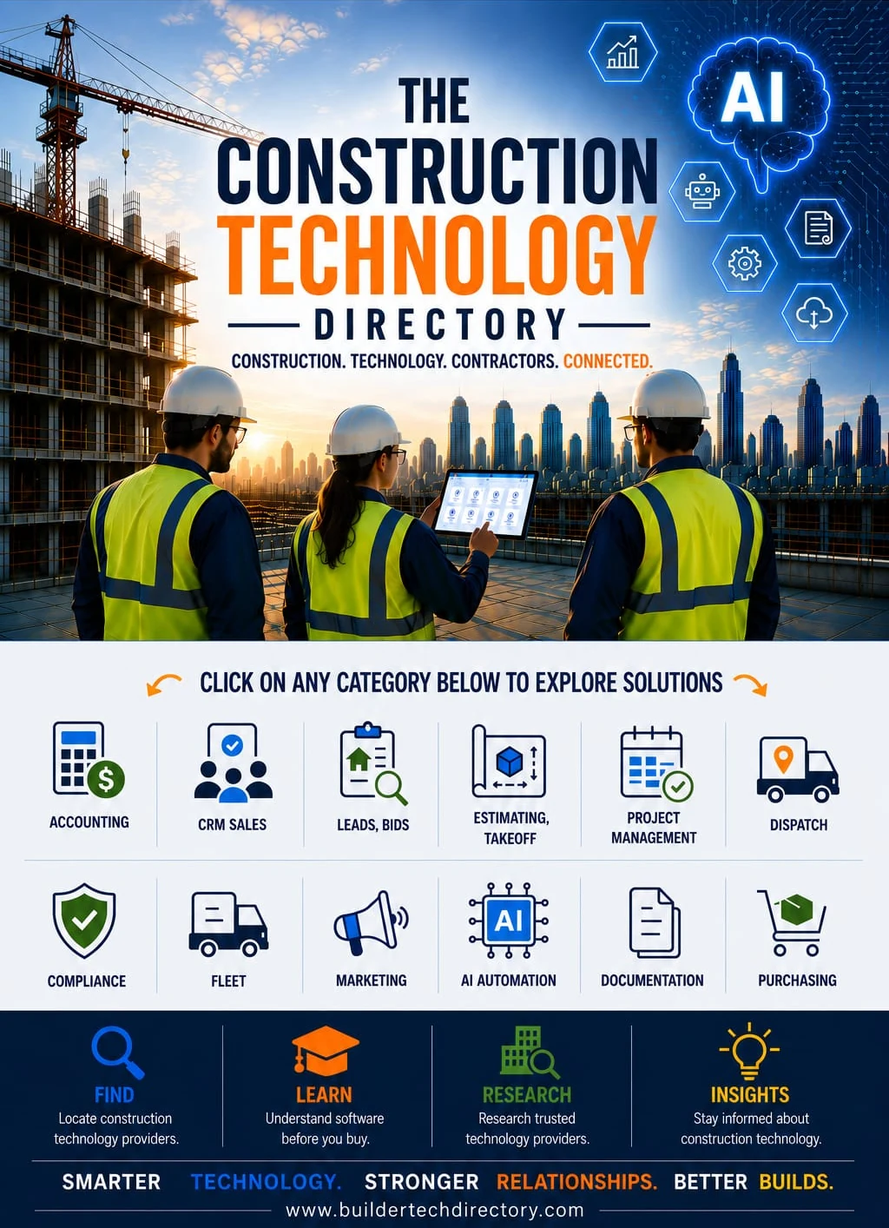
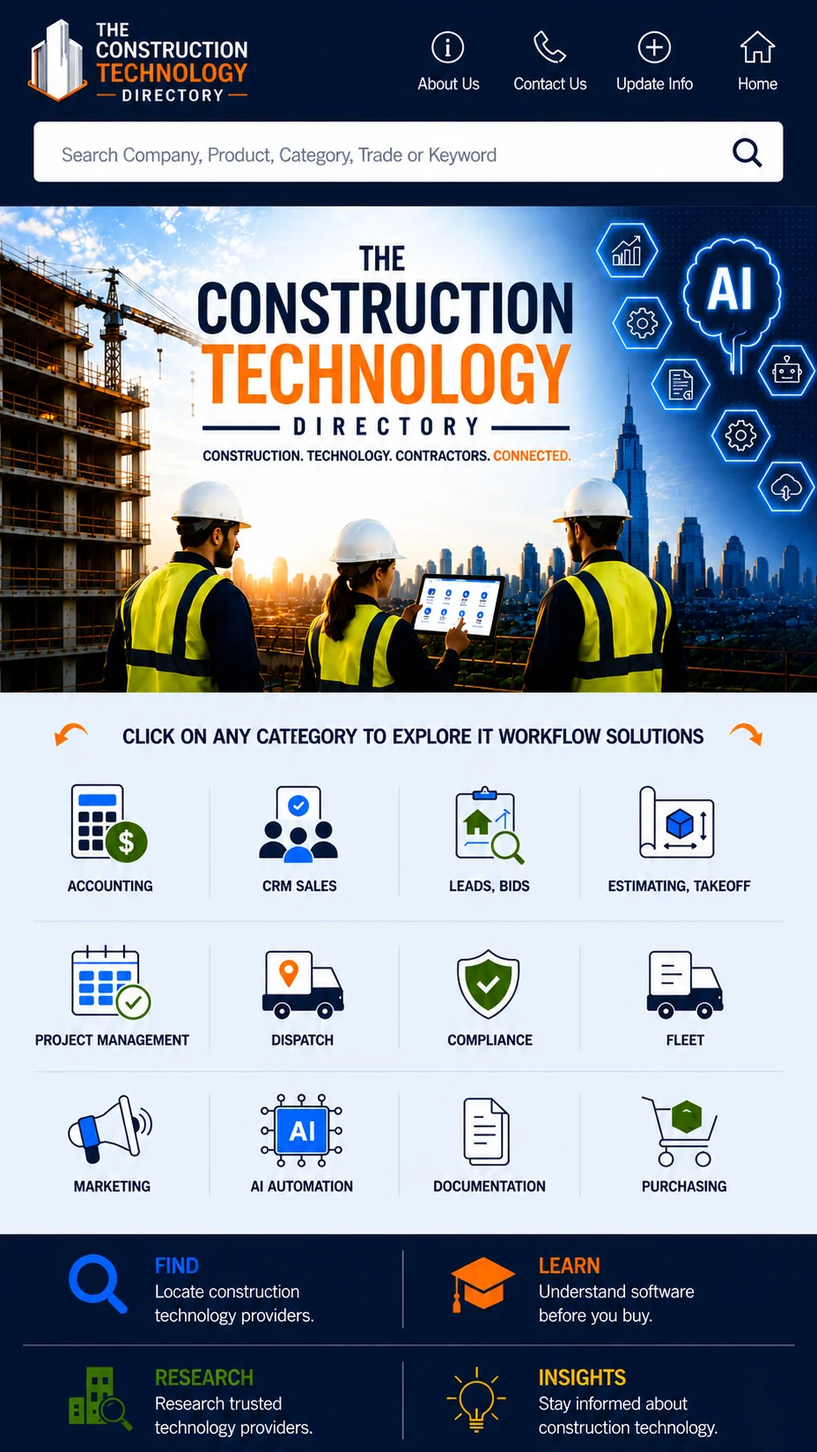
Rebuild homepage from latest Claude Design mockup (image nav + footer, live search)
- Replace hero/nav/footer with new flat design images (baked-in header nav + footer, no login) and precise percentage-based hotspots for desktop and mobile
- Category hotspots wire directly into the existing filter engine (data-cat) - clicking a category scrolls to the directory and filters live
- Logo and search hotspots scroll to top / scroll to and focus the real search input
- Add a real functional search bar at the top of the directory section (header no longer sticky, nav is baked into the hero image)
- Footer is now the approved flat design image with hotspots for all nav/legal/social links (destinations to be wired next)
- Convert new design PNGs to webp, cutting hero+footer image weight from ~4.6MB to ~450KB
- Remove dead CSS from the old HTML header/footer/hero implementations

diff --git a/index.html b/index.html
@@ -19,122 +19,114 @@
     ::-webkit-scrollbar{width:10px}
     ::-webkit-scrollbar-thumb{background:#CBD5E1;border-radius:8px;border:2px solid #F4F6F9}
 
-    /* ===== PAGE 1 : HERO LANDING ===== */
-    .hero-page{background:#0A1B30}
-    /* Desktop: flat mockup image + clickable category hotspots */
-    .hero-flat{position:relative;display:block;width:100%;margin:0 auto}
-    .hero-flat>img{display:block;width:100%;height:auto}
-    .hero-hot{position:absolute;left:0;right:0;top:60.5%;height:15.5%}
-    .hero-hot a{position:absolute;top:0;height:100%;display:block;border-radius:10px;transition:background .14s ease}
-    .hero-hot a:hover{background:rgba(28,78,128,.15)}
-    /* Mobile: flat portrait mockup image + clickable hotspots */
-    .hero-mobile-flat{display:none;position:relative;width:100%}
-    .hero-mobile-flat>img{display:block;width:100%;height:auto}
-    .hero-mobile-flat a{position:absolute;display:block;border-radius:8px;-webkit-tap-highlight-color:transparent;transition:background .14s ease}
-    .hero-mobile-flat a:hover,.hero-mobile-flat a:active{background:rgba(28,78,128,.18)}
-    /* (legacy HTML mobile hero, unused) */
-    .hero-mobile{display:none}
-    .hero-visual{flex:1 1 auto;position:relative;min-height:200px;overflow:hidden}
-    .hero-visual picture,.hero-visual img{position:absolute;inset:0;width:100%;height:100%;object-fit:cover;object-position:center}
-    .hero-catstrip{flex:0 0 auto;background:#fff}
-    .hero-catgrid{display:grid;grid-template-columns:repeat(4,1fr);gap:9px}
-    .htile{display:flex;flex-direction:column;align-items:center;gap:7px;padding:11px 5px;border:1.5px solid #E5EAF1;border-radius:12px;background:#fff}
-    .hero-pillarband{flex:0 0 auto;background:linear-gradient(180deg,#14365C,#0E2747);color:#fff}
-    .hero-pillars{display:grid;grid-template-columns:repeat(2,1fr);gap:16px}
+    /* ===== PAGE 1 : HERO + FOOTER (flat design images, hotspot overlays) ===== */
+    body{background:#01153c}
+    img.hero-img{width:100%;height:auto;display:block}
+    .hswrap{position:relative;width:100%;margin:0 auto}
+    .hswrap.desktop{max-width:1672px}
+    .hswrap.mobile{max-width:941px}
+    .hswrap.desktop-ftr{max-width:1677px}
+    .hswrap.mobile-ftr{max-width:942px}
+    .hs{position:absolute;display:block;border-radius:6px;cursor:pointer;
+        background:transparent;transition:background .15s ease, box-shadow .15s ease;}
+    .hs:hover{background:rgba(242,106,27,.16);box-shadow:0 0 0 2px rgba(242,106,27,.75) inset;}
+    .hs:focus-visible{outline:none;background:rgba(242,106,27,.20);box-shadow:0 0 0 2px rgba(242,106,27,.9) inset;}
+    .view-desktop{display:block}
+    .view-mobile{display:none}
+    @media (max-width:760px){.view-desktop{display:none}.view-mobile{display:block}}
 
     /* ===== PAGE 2 : DIRECTORY / FILTERS ===== */
-    #directory{scroll-margin-top:72px}
+    #directory{background:#F4F6F9;scroll-margin-top:12px}
+    .dir-search{max-width:900px;margin:0 auto 30px;display:flex;gap:0;box-shadow:0 8px 30px rgba(1,21,60,.10);border-radius:14px;overflow:hidden;border:1px solid #E2E8F0}
+    .dir-search input{flex:1;border:none;padding:19px 22px;font-size:16px;outline:none;color:#0F1B2D;background:#fff}
+    .dir-search button{border:none;background:#F47A21;color:#fff;font-weight:800;padding:0 26px;font-size:15px;cursor:pointer;display:flex;align-items:center;gap:8px}
     .dir-layout{display:grid;grid-template-columns:276px 1fr;gap:26px;align-items:start}
-    .cat-grid{display:grid;grid-template-columns:repeat(6,1fr);gap:12px}
-    .ftr-pillars{display:grid;grid-template-columns:repeat(4,1fr);gap:30px}
     .cat-tile{cursor:pointer;transition:transform .14s,border-color .14s,background .14s}
     .cat-tile:hover{transform:translateY(-3px)}
 
     @media(max-width:1000px){
       .dir-layout{grid-template-columns:1fr}
       .dir-sidebar{position:static!important;top:auto!important}
-      .cat-grid{grid-template-columns:repeat(3,1fr)}
-      .ftr-pillars{grid-template-columns:repeat(2,1fr);gap:22px}
-    }
-    @media(max-width:760px){
-      .hero-flat{display:none}
-      .hero-mobile-flat{display:block}
     }
     @media(max-width:600px){
-      .cat-grid{grid-template-columns:repeat(2,1fr)}
-      .hdr-inner{flex-wrap:wrap;gap:10px!important;padding:10px 16px!important}
-      .hdr-search{order:3;flex-basis:100%;max-width:none}
+      .dir-search{margin-bottom:20px}
     }
   </style>
 </head>
 <body>
 
-<!-- ============ UNIFIED HEADER (logo + search, no login) ============ -->
-<header style="position:sticky;top:0;z-index:60;background:#fff;border-bottom:1px solid #E5EAF1;box-shadow:0 1px 0 rgba(15,27,45,.02)">
-  <div class="hdr-inner" style="max-width:1240px;margin:0 auto;padding:11px 22px;display:flex;align-items:center;gap:20px">
-    <a href="#top" style="display:flex;align-items:center;gap:11px;flex:none">
-      <span style="width:40px;height:40px;border-radius:10px;background:linear-gradient(155deg,#1C4E80,#14365C);display:flex;align-items:center;justify-content:center;position:relative;flex:none">
-        <svg width="22" height="22" viewBox="0 0 24 24" fill="none" stroke="#fff" stroke-width="1.8" stroke-linecap="round" stroke-linejoin="round"><path d="M3 21h18M5 21V8l7-4 7 4v13"/><path d="M9 21v-5h6v5"/><path d="M9 11h.01M15 11h.01"/></svg>
-        <span style="position:absolute;left:8px;right:8px;bottom:7px;height:3px;border-radius:3px;background:#F47A21"></span>
-      </span>
-      <span style="display:flex;flex-direction:column;line-height:1.02">
-        <span style="font-size:8.5px;font-weight:800;letter-spacing:.26em;color:#94A3B8">THE CONSTRUCTION</span>
-        <span style="font-size:14px;font-weight:900;letter-spacing:.01em;color:#F47A21;line-height:1.05">TECHNOLOGY</span>
-        <span style="font-size:9px;font-weight:800;letter-spacing:.42em;color:#14365C">DIRECTORY</span>
-      </span>
-    </a>
-    <div class="hdr-search" style="flex:1;position:relative;max-width:680px">
-      <svg style="position:absolute;left:16px;top:50%;transform:translateY(-50%)" width="18" height="18" viewBox="0 0 24 24" fill="none" stroke="#94A3B8" stroke-width="2.4" stroke-linecap="round" stroke-linejoin="round"><circle cx="11" cy="11" r="8"/><path d="M21 21l-4.35-4.35"/></svg>
-      <input type="text" id="search-input" placeholder="Type company, category, subcategory or trade name…" style="width:100%;padding:12px 44px 12px 44px;border-radius:11px;border:1.5px solid #E2E8F0;background:#F8FAFC;font-size:14px;color:#0F1B2D;outline:none" onfocus="this.style.borderColor='#1C4E80';this.style.background='#fff';document.getElementById('directory').scrollIntoView({behavior:'smooth'})" onblur="this.style.borderColor='#E2E8F0';this.style.background='#F8FAFC'">
-      <button id="clear-search" style="position:absolute;right:12px;top:50%;transform:translateY(-50%);width:22px;height:22px;border:none;border-radius:50%;background:#E2E8F0;color:#475569;cursor:pointer;display:flex;align-items:center;justify-content:center;font-size:14px;line-height:1;padding:0">×</button>
-    </div>
-  </div>
-</header>
+<!-- ============ HERO + NAV + CATEGORIES (flat design image, DESKTOP) ============ -->
+<div id="top" class="view-desktop">
+  <div class="hswrap desktop">
+    <img class="hero-img" src="assets/hero/home-hero-desktop.webp" alt="The Construction Technology Directory homepage">
+    <a class="hs" href="#top" data-scroll="top" aria-label="Home — scroll to top" style="left:3.3%;top:2.1%;width:16.7%;height:9%"></a>
+    <a class="hs" href="#directory" data-scroll="search" aria-label="Search — go to Directory" style="left:27.4%;top:3.2%;width:41.4%;height:6.6%"></a>
+    <a class="hs" href="#" data-link="about-us" aria-label="About Us" style="left:72.4%;top:2.7%;width:4.8%;height:8.5%"></a>
+    <a class="hs" href="#" data-link="contact-us" aria-label="Contact Us" style="left:78.6%;top:2.7%;width:5.1%;height:8.5%"></a>
+    <a class="hs" href="#" data-link="update-info" aria-label="Update Info" style="left:85.4%;top:2.7%;width:5.6%;height:8.5%"></a>
+    <a class="hs" href="#top" data-scroll="top" aria-label="Home" style="left:92.3%;top:2.7%;width:4.3%;height:8.5%"></a>
 
-<!-- ============ PAGE 1 : HERO LANDING ============ -->
-<section id="top" class="hero-page">
+    <a class="hs" href="#directory" data-cat="accounting-payroll" aria-label="Accounting category" style="left:5.4%;top:59.5%;width:14.7%;height:12.8%"></a>
+    <a class="hs" href="#directory" data-cat="crm-sales" aria-label="CRM &amp; Sales category" style="left:20.9%;top:59.5%;width:14.1%;height:12.8%"></a>
+    <a class="hs" href="#directory" data-cat="construction-leads" aria-label="Leads &amp; Bids category" style="left:35.9%;top:59.5%;width:14.1%;height:12.8%"></a>
+    <a class="hs" href="#directory" data-cat="estimating-takeoff" aria-label="Estimating &amp; Takeoff category" style="left:50.8%;top:59.5%;width:14.1%;height:12.8%"></a>
+    <a class="hs" href="#directory" data-cat="project-management" aria-label="Project Management category" style="left:65.8%;top:59.5%;width:14.1%;height:12.8%"></a>
+    <a class="hs" href="#directory" data-cat="field-service-dispatch" aria-label="Dispatch category" style="left:80.7%;top:59.5%;width:13.8%;height:12.8%"></a>
+    <a class="hs" href="#directory" data-cat="safety-compliance" aria-label="Compliance category" style="left:5.4%;top:74.4%;width:14.7%;height:12.2%"></a>
+    <a class="hs" href="#directory" data-cat="fleet-equipment" aria-label="Fleet category" style="left:20.9%;top:74.4%;width:14.1%;height:12.2%"></a>
+    <a class="hs" href="#directory" data-cat="marketing-reputation" aria-label="Marketing category" style="left:35.9%;top:74.4%;width:14.1%;height:12.2%"></a>
+    <a class="hs" href="#directory" data-cat="ai-automation" aria-label="AI Automation category" style="left:50.8%;top:74.4%;width:14.1%;height:12.2%"></a>
+    <a class="hs" href="#directory" data-cat="document-management" aria-label="Documentation category" style="left:65.8%;top:74.4%;width:14.1%;height:12.2%"></a>
+    <a class="hs" href="#directory" data-cat="procurement-purchasing" aria-label="Purchasing category" style="left:80.7%;top:74.4%;width:13.8%;height:12.2%"></a>
 
-  <!-- DESKTOP: flat mockup image with clickable category hotspots -->
-  <div class="hero-flat">
-    <img src="assets/hero/home-hero-desktop.webp" alt="The Construction Technology Directory — construction professionals reviewing technology with AI tools, click any category to explore solutions">
-    <div class="hero-hot">
-      <a href="#directory" data-cat="accounting-payroll"     aria-label="Accounting &amp; Payroll"   style="left:1.0%;width:8.25%"></a>
-      <a href="#directory" data-cat="crm-sales"              aria-label="CRM &amp; Sales"           style="left:9.25%;width:8.3%"></a>
-      <a href="#directory" data-cat="construction-leads"     aria-label="Leads, Bids &amp; Estimates" style="left:17.55%;width:8.45%"></a>
-      <a href="#directory" data-cat="estimating-takeoff"     aria-label="Estimating &amp; Takeoff"   style="left:26.0%;width:8.5%"></a>
-      <a href="#directory" data-cat="project-management"     aria-label="Project Management"        style="left:34.5%;width:8.7%"></a>
-      <a href="#directory" data-cat="field-service-dispatch" aria-label="Dispatch"                  style="left:43.2%;width:8.55%"></a>
-      <a href="#directory" data-cat="safety-compliance"      aria-label="Compliance"                style="left:51.75%;width:7.85%"></a>
-      <a href="#directory" data-cat="fleet-equipment"        aria-label="Fleet"                     style="left:59.6%;width:7.55%"></a>
-      <a href="#directory" data-cat="marketing-reputation"   aria-label="Marketing"                 style="left:67.15%;width:7.8%"></a>
-      <a href="#directory" data-cat="ai-automation"          aria-label="AI Automation"             style="left:74.95%;width:8.2%"></a>
-      <a href="#directory" data-cat="document-management"    aria-label="Documentation"             style="left:83.15%;width:7.85%"></a>
-      <a href="#directory" data-cat="procurement-purchasing" aria-label="Purchasing"                style="left:91.0%;width:7.4%"></a>
-    </div>
+    <a class="hs" href="#" data-link="find" aria-label="Find" style="left:6%;top:87.7%;width:22.1%;height:12.3%"></a>
+    <a class="hs" href="#" data-link="learn" aria-label="Learn" style="left:31.7%;top:87.7%;width:22.7%;height:12.3%"></a>
+    <a class="hs" href="#" data-link="research" aria-label="Research" style="left:57.4%;top:87.7%;width:17.3%;height:12.3%"></a>
+    <a class="hs" href="#" data-link="insights" aria-label="Insights" style="left:76.6%;top:87.7%;width:19.7%;height:12.3%"></a>
   </div>
+</div>
 
-  <!-- MOBILE: flat portrait mockup image with clickable category hotspots -->
-  <div class="hero-mobile-flat">
-    <img src="assets/hero/home-hero-mobile.webp" alt="The Construction Technology Directory — construction professionals reviewing technology with AI tools, tap any category to explore solutions">
-    <!-- Row 1 -->
-    <a href="#directory" data-cat="accounting-payroll"     aria-label="Accounting &amp; Payroll"    style="left:1.9%;width:15%;top:54.5%;height:10.8%"></a>
-    <a href="#directory" data-cat="crm-sales"              aria-label="CRM &amp; Sales"            style="left:18.5%;width:15%;top:54.5%;height:10.8%"></a>
-    <a href="#directory" data-cat="construction-leads"     aria-label="Leads, Bids &amp; Estimates" style="left:34.1%;width:15%;top:54.5%;height:10.8%"></a>
-    <a href="#directory" data-cat="estimating-takeoff"     aria-label="Estimating &amp; Takeoff"    style="left:50.2%;width:15%;top:54.5%;height:10.8%"></a>
-    <a href="#directory" data-cat="project-management"     aria-label="Project Management"         style="left:65.8%;width:15%;top:54.5%;height:10.8%"></a>
-    <a href="#directory" data-cat="field-service-dispatch" aria-label="Dispatch"                   style="left:82.3%;width:15%;top:54.5%;height:10.8%"></a>
-    <!-- Row 2 -->
-    <a href="#directory" data-cat="safety-compliance"      aria-label="Compliance"                style="left:1.9%;width:15%;top:65.5%;height:12.5%"></a>
-    <a href="#directory" data-cat="fleet-equipment"        aria-label="Fleet"                     style="left:18.5%;width:15%;top:65.5%;height:12.5%"></a>
-    <a href="#directory" data-cat="marketing-reputation"   aria-label="Marketing"                 style="left:34.1%;width:15%;top:65.5%;height:12.5%"></a>
-    <a href="#directory" data-cat="ai-automation"          aria-label="AI Automation"             style="left:50.2%;width:15%;top:65.5%;height:12.5%"></a>
-    <a href="#directory" data-cat="document-management"    aria-label="Documentation"             style="left:65.8%;width:15%;top:65.5%;height:12.5%"></a>
-    <a href="#directory" data-cat="procurement-purchasing" aria-label="Purchasing"                style="left:82.3%;width:15%;top:65.5%;height:12.5%"></a>
+<!-- ============ HERO + NAV + CATEGORIES (flat design image, MOBILE) ============ -->
+<div class="view-mobile">
+  <div class="hswrap mobile">
+    <img class="hero-img" src="assets/hero/home-hero-mobile.webp" alt="The Construction Technology Directory homepage">
+    <a class="hs" href="#top" data-scroll="top" aria-label="Home — scroll to top" style="left:5.8%;top:1.2%;width:29.8%;height:6%"></a>
+    <a class="hs" href="#directory" data-scroll="search" aria-label="Search — go to Directory" style="left:3.7%;top:8.7%;width:92.8%;height:3.9%"></a>
+    <a class="hs" href="#" data-link="about-us" aria-label="About Us" style="left:50.5%;top:1.8%;width:9%;height:5.4%"></a>
+    <a class="hs" href="#" data-link="contact-us" aria-label="Contact Us" style="left:62.7%;top:1.8%;width:9.4%;height:5.4%"></a>
+    <a class="hs" href="#" data-link="update-info" aria-label="Update Info" style="left:74.9%;top:1.8%;width:10.6%;height:5.4%"></a>
+    <a class="hs" href="#top" data-scroll="top" aria-label="Home" style="left:88.4%;top:1.8%;width:8.5%;height:5.4%"></a>
+
+    <a class="hs" href="#directory" data-cat="accounting-payroll" aria-label="Accounting category" style="left:3.2%;top:53.2%;width:21.8%;height:10.5%"></a>
+    <a class="hs" href="#directory" data-cat="crm-sales" aria-label="CRM &amp; Sales category" style="left:26%;top:53.2%;width:22.3%;height:10.5%"></a>
+    <a class="hs" href="#directory" data-cat="construction-leads" aria-label="Leads &amp; Bids category" style="left:49.4%;top:53.2%;width:22.3%;height:10.5%"></a>
+    <a class="hs" href="#directory" data-cat="estimating-takeoff" aria-label="Estimating &amp; Takeoff category" style="left:72.8%;top:53.2%;width:22.3%;height:10.5%"></a>
+    <a class="hs" href="#directory" data-cat="project-management" aria-label="Project Management category" style="left:3.2%;top:64.6%;width:21.8%;height:10.5%"></a>
+    <a class="hs" href="#directory" data-cat="field-service-dispatch" aria-label="Dispatch category" style="left:26%;top:64.6%;width:22.3%;height:10.5%"></a>
+    <a class="hs" href="#directory" data-cat="safety-compliance" aria-label="Compliance category" style="left:49.4%;top:64.6%;width:22.3%;height:10.5%"></a>
+    <a class="hs" href="#directory" data-cat="fleet-equipment" aria-label="Fleet category" style="left:72.8%;top:64.6%;width:22.3%;height:10.5%"></a>
+    <a class="hs" href="#directory" data-cat="marketing-reputation" aria-label="Marketing category" style="left:3.2%;top:75.4%;width:21.8%;height:10.5%"></a>
+    <a class="hs" href="#directory" data-cat="ai-automation" aria-label="AI Automation category" style="left:26%;top:75.4%;width:22.3%;height:10.5%"></a>
+    <a class="hs" href="#directory" data-cat="document-management" aria-label="Documentation category" style="left:49.4%;top:75.4%;width:22.3%;height:10.5%"></a>
+    <a class="hs" href="#directory" data-cat="procurement-purchasing" aria-label="Purchasing category" style="left:72.8%;top:75.4%;width:22.3%;height:10.5%"></a>
+
+    <a class="hs" href="#" data-link="find" aria-label="Find" style="left:6.4%;top:86%;width:42%;height:6.5%"></a>
+    <a class="hs" href="#" data-link="learn" aria-label="Learn" style="left:53%;top:86%;width:43%;height:6.5%"></a>
+    <a class="hs" href="#" data-link="research" aria-label="Research" style="left:6.4%;top:93.5%;width:42%;height:6%"></a>
+    <a class="hs" href="#" data-link="insights" aria-label="Insights" style="left:53%;top:93.5%;width:43%;height:6%"></a>
   </div>
-</section>
+</div>
 
 <!-- ============ PAGE 2 : DIRECTORY / FILTERS ============ -->
-<main id="directory" style="max-width:1240px;width:100%;margin:0 auto;padding:26px 22px 40px">
+<main id="directory" style="max-width:1240px;width:100%;margin:0 auto;padding:34px 22px 40px">
+  <div class="dir-search">
+    <svg width="18" height="18" viewBox="0 0 24 24" fill="none" stroke="#94A3B8" stroke-width="2.4" stroke-linecap="round" stroke-linejoin="round" style="flex:none;margin-left:19px"><circle cx="11" cy="11" r="8"/><path d="M21 21l-4.35-4.35"/></svg>
+    <input type="text" id="search-input" placeholder="Search Company, Product, Category, Trade or Keyword" aria-label="Search the directory" style="padding-left:12px">
+    <button id="clear-search" type="button" aria-label="Clear search">
+      <svg width="15" height="15" viewBox="0 0 24 24" fill="none" stroke="currentColor" stroke-width="2.6" stroke-linecap="round" stroke-linejoin="round"><path d="M18 6L6 18M6 6l12 12"/></svg>
+      Clear
+    </button>
+  </div>
   <div class="dir-layout">
 
     <!-- FILTER SIDEBAR -->
@@ -170,44 +162,69 @@
   </div>
 </main>
 
-<!-- ============ FOOTER ============ -->
-<footer style="background:linear-gradient(180deg,#14365C,#0E2747);color:#fff">
-  <div style="max-width:1240px;margin:0 auto;padding:38px 22px 30px">
-    <div class="ftr-pillars">
-      <div>
-        <div style="font-size:13px;font-weight:900;color:#fff;letter-spacing:.06em;margin-bottom:12px">COMPANY</div>
-        <div style="display:flex;flex-direction:column;gap:8px;font-size:13px;color:#A6C3DE">
-          <a href="about/" style="color:#A6C3DE">About Us</a>
-          <a href="contact/" style="color:#A6C3DE">Contact Us</a>
-        </div>
-      </div>
-      <div>
-        <div style="font-size:13px;font-weight:900;color:#fff;letter-spacing:.06em;margin-bottom:12px">RESOURCES</div>
-        <div style="display:flex;flex-direction:column;gap:8px;font-size:13px;color:#A6C3DE">
-          <a href="resources/" style="color:#A6C3DE">Insights</a>
-          <a href="resources/" style="color:#A6C3DE">FAQ</a>
-        </div>
-      </div>
-      <div>
-        <div style="font-size:13px;font-weight:900;color:#fff;letter-spacing:.06em;margin-bottom:12px">LEGAL</div>
-        <div style="display:flex;flex-direction:column;gap:8px;font-size:13px;color:#A6C3DE">
-          <a href="#" style="color:#A6C3DE">Privacy Policy</a>
-          <a href="#" style="color:#A6C3DE">Terms of Use</a>
-        </div>
-      </div>
-      <div>
-        <div style="font-size:13px;font-weight:900;color:#fff;letter-spacing:.06em;margin-bottom:12px">FOLLOW US</div>
-        <div style="display:flex;gap:12px">
-          <a href="#" aria-label="LinkedIn" style="width:34px;height:34px;border-radius:9px;background:rgba(255,255,255,.08);display:flex;align-items:center;justify-content:center;color:#fff"><svg width="17" height="17" viewBox="0 0 24 24" fill="currentColor"><path d="M4.98 3.5A2.5 2.5 0 1 0 5 8.5a2.5 2.5 0 0 0-.02-5zM3 9h4v12H3zM10 9h3.8v1.7h.05c.53-1 1.83-2.05 3.77-2.05 4.03 0 4.78 2.65 4.78 6.1V21h-4v-5.4c0-1.29-.02-2.95-1.8-2.95-1.8 0-2.08 1.4-2.08 2.85V21h-4z"/></svg></a>
-          <a href="#" aria-label="X" style="width:34px;height:34px;border-radius:9px;background:rgba(255,255,255,.08);display:flex;align-items:center;justify-content:center;color:#fff"><svg width="15" height="15" viewBox="0 0 24 24" fill="currentColor"><path d="M18.9 2H22l-7.6 8.7L23.3 22h-6.9l-5.4-7-6.2 7H1.6l8.1-9.3L1 2h7l4.9 6.5zM17.7 20h1.7L7.4 4H5.6z"/></svg></a>
-        </div>
-      </div>
-    </div>
-    <div style="text-align:center;margin-top:34px;padding-top:22px;border-top:1px solid rgba(166,195,222,.18);font-size:12.5px;color:#7FA8D4">
-      © 2026 The Construction Technology Directory, LLC. All rights reserved.
-    </div>
+<!-- ============ FOOTER (flat design image, DESKTOP) ============ -->
+<div class="view-desktop">
+  <div class="hswrap desktop-ftr">
+    <img class="hero-img" src="assets/hero/footer-hero-desktop.webp" alt="Footer">
+    <a class="hs" href="#top" data-scroll="top" aria-label="Home — scroll to top" style="left:2%;top:10%;width:17%;height:48%"></a>
+    <a class="hs" href="#" data-link="about-us" aria-label="About Us" style="left:25.9%;top:28.7%;width:11.6%;height:8%"></a>
+    <a class="hs" href="#" data-link="contact-us" aria-label="Contact Us" style="left:25.9%;top:40.6%;width:11.6%;height:8%"></a>
+    <a class="hs" href="#" data-link="update-info" aria-label="Update Info" style="left:25.9%;top:52.6%;width:11.6%;height:8%"></a>
+    <a class="hs" href="#" data-link="marketing-opportunities" aria-label="Marketing Opportunities" style="left:25.9%;top:64.5%;width:14%;height:8.8%"></a>
+    <a class="hs" href="#" data-link="categories" aria-label="Categories" style="left:41.7%;top:27.1%;width:8.5%;height:7.6%"></a>
+    <a class="hs" href="#" data-link="subcategories" aria-label="Subcategories" style="left:41.7%;top:37.5%;width:8.5%;height:7.6%"></a>
+    <a class="hs" href="#" data-link="products" aria-label="Products" style="left:41.7%;top:47.8%;width:8.5%;height:7.6%"></a>
+    <a class="hs" href="#" data-link="master-trades" aria-label="Master Trades" style="left:41.7%;top:58.2%;width:8.5%;height:7.6%"></a>
+    <a class="hs" href="#" data-link="divisions" aria-label="Divisions" style="left:41.7%;top:68.5%;width:8.5%;height:7.6%"></a>
+    <a class="hs" href="#" data-link="trades" aria-label="Trades" style="left:41.7%;top:78.9%;width:8.5%;height:7.6%"></a>
+    <a class="hs" href="#" data-link="technology-guides" aria-label="Technology Guides" style="left:56.1%;top:27.1%;width:10%;height:7.6%"></a>
+    <a class="hs" href="#" data-link="find" aria-label="Find" style="left:56.1%;top:37.5%;width:10%;height:7.6%"></a>
+    <a class="hs" href="#" data-link="learn" aria-label="Learn" style="left:56.1%;top:47.8%;width:10%;height:7.6%"></a>
+    <a class="hs" href="#" data-link="research" aria-label="Research" style="left:56.1%;top:58.2%;width:10%;height:7.6%"></a>
+    <a class="hs" href="#" data-link="insights" aria-label="Insights" style="left:56.1%;top:68.5%;width:10%;height:7.6%"></a>
+    <a class="hs" href="#" data-link="faqs-glossary" aria-label="FAQs / Glossary" style="left:56.1%;top:78.9%;width:10%;height:7.6%"></a>
+    <a class="hs" href="#" data-link="privacy-policy" aria-label="Privacy Policy" style="left:71.9%;top:27.9%;width:8.5%;height:8%"></a>
+    <a class="hs" href="#" data-link="terms-of-use" aria-label="Terms of Use" style="left:71.9%;top:41%;width:8.5%;height:8%"></a>
+    <a class="hs" href="#" data-link="site-map" aria-label="Site Map" style="left:71.9%;top:54.2%;width:8.5%;height:8%"></a>
+    <a class="hs" href="#" data-link="disclaimer" aria-label="Disclaimer" style="left:71.9%;top:67.3%;width:8.5%;height:8%"></a>
+    <a class="hs" href="#" data-link="linkedin" aria-label="LinkedIn" style="left:85.2%;top:31.1%;width:4.2%;height:19.9%"></a>
+    <a class="hs" href="#" data-link="facebook" aria-label="Facebook" style="left:89.9%;top:31.1%;width:4.3%;height:19.9%"></a>
+    <a class="hs" href="#" data-link="youtube" aria-label="YouTube" style="left:85.2%;top:59.8%;width:4.2%;height:19.1%"></a>
+    <a class="hs" href="#" data-link="instagram" aria-label="Instagram" style="left:89.9%;top:59.8%;width:4.3%;height:19.1%"></a>
   </div>
-</footer>
+</div>
+
+<!-- ============ FOOTER (flat design image, MOBILE) ============ -->
+<div class="view-mobile">
+  <div class="hswrap mobile-ftr">
+    <img class="hero-img" src="assets/hero/footer-hero-mobile.webp" alt="Footer">
+    <a class="hs" href="#top" data-scroll="top" aria-label="Home — scroll to top" style="left:3.2%;top:10.3%;width:20.2%;height:41%"></a>
+    <a class="hs" href="#" data-link="about-us" aria-label="About Us" style="left:25.8%;top:27.6%;width:19.9%;height:7.6%"></a>
+    <a class="hs" href="#" data-link="contact-us" aria-label="Contact Us" style="left:25.8%;top:39.3%;width:19.9%;height:7.6%"></a>
+    <a class="hs" href="#" data-link="update-info" aria-label="Update Info" style="left:25.8%;top:51%;width:19.9%;height:7.6%"></a>
+    <a class="hs" href="#" data-link="marketing-opportunities" aria-label="Marketing Opportunities" style="left:25.8%;top:62.8%;width:22%;height:7.6%"></a>
+    <a class="hs" href="#" data-link="categories" aria-label="Categories" style="left:41.9%;top:26.9%;width:12.2%;height:6.5%"></a>
+    <a class="hs" href="#" data-link="subcategories" aria-label="Subcategories" style="left:41.9%;top:36.6%;width:12.2%;height:6.5%"></a>
+    <a class="hs" href="#" data-link="products" aria-label="Products" style="left:41.9%;top:46.2%;width:12.2%;height:6.5%"></a>
+    <a class="hs" href="#" data-link="master-trades" aria-label="Master Trades" style="left:41.9%;top:55.9%;width:12.2%;height:6.5%"></a>
+    <a class="hs" href="#" data-link="divisions" aria-label="Divisions" style="left:41.9%;top:65.5%;width:12.2%;height:6.5%"></a>
+    <a class="hs" href="#" data-link="trades" aria-label="Trades" style="left:41.9%;top:75.2%;width:12.2%;height:6.5%"></a>
+    <a class="hs" href="#" data-link="technology-guides" aria-label="Technology Guides" style="left:56.3%;top:26.9%;width:13%;height:6.5%"></a>
+    <a class="hs" href="#" data-link="find" aria-label="Find" style="left:56.3%;top:36.6%;width:13%;height:6.5%"></a>
+    <a class="hs" href="#" data-link="learn" aria-label="Learn" style="left:56.3%;top:46.2%;width:13%;height:6.5%"></a>
+    <a class="hs" href="#" data-link="research" aria-label="Research" style="left:56.3%;top:55.9%;width:13%;height:6.5%"></a>
+    <a class="hs" href="#" data-link="insights" aria-label="Insights" style="left:56.3%;top:65.5%;width:13%;height:6.5%"></a>
+    <a class="hs" href="#" data-link="faqs-glossary" aria-label="FAQs / Glossary" style="left:56.3%;top:75.2%;width:13%;height:6.5%"></a>
+    <a class="hs" href="#" data-link="privacy-policy" aria-label="Privacy Policy" style="left:72.2%;top:27.6%;width:10.1%;height:7.6%"></a>
+    <a class="hs" href="#" data-link="terms-of-use" aria-label="Terms of Use" style="left:72.2%;top:39.3%;width:10.1%;height:7.6%"></a>
+    <a class="hs" href="#" data-link="site-map" aria-label="Site Map" style="left:72.2%;top:51%;width:10.1%;height:7.6%"></a>
+    <a class="hs" href="#" data-link="disclaimer" aria-label="Disclaimer" style="left:72.2%;top:62.8%;width:10.1%;height:7.6%"></a>
+    <a class="hs" href="#" data-link="linkedin" aria-label="LinkedIn" style="left:86%;top:30.3%;width:5.1%;height:15.9%"></a>
+    <a class="hs" href="#" data-link="facebook" aria-label="Facebook" style="left:91.9%;top:30.3%;width:5.1%;height:15.9%"></a>
+    <a class="hs" href="#" data-link="youtube" aria-label="YouTube" style="left:86%;top:51.7%;width:5.1%;height:15.9%"></a>
+    <a class="hs" href="#" data-link="instagram" aria-label="Instagram" style="left:91.9%;top:51.7%;width:5.1%;height:15.9%"></a>
+  </div>
+</div>
 
 <script src="assets/tools-data.js"></script>
 <script>
@@ -446,6 +463,18 @@
       if((el=t.closest('[data-view]'))){state.view=el.dataset.view;state.page=1;render();return;}
       if((el=t.closest('[data-page]'))){gotoPage(+el.dataset.page);return;}
       if((el=t.closest('[data-q]'))){var q=el.dataset.q;state.search=q;state.page=1;var si2=document.getElementById('search-input');if(si2)si2.value=q;render();var dir=document.getElementById('directory');if(dir)dir.scrollIntoView({behavior:'smooth'});return;}
+      if((el=t.closest('[data-scroll]'))){
+        e.preventDefault();
+        var sc=el.dataset.scroll;
+        if(sc==='top'){window.scrollTo({top:0,behavior:'smooth'});}
+        else if(sc==='search'){
+          var d=document.getElementById('directory');
+          if(d)d.scrollIntoView({behavior:'smooth'});
+          setTimeout(function(){var si3=document.getElementById('search-input');if(si3)si3.focus({preventScroll:true});},450);
+        }
+        return;
+      }
+      if((el=t.closest('a.hs'))&&el.getAttribute('href')==='#'){e.preventDefault();}
     });
     document.addEventListener('change',function(e){if(e.target.dataset.sort){state.sort=e.target.value;state.page=1;render();}});
     document.addEventListener('input',function(e){if(e.target.dataset.gsearch){setGroupSearch(e.target.dataset.gsearch,e.target.value);}});
